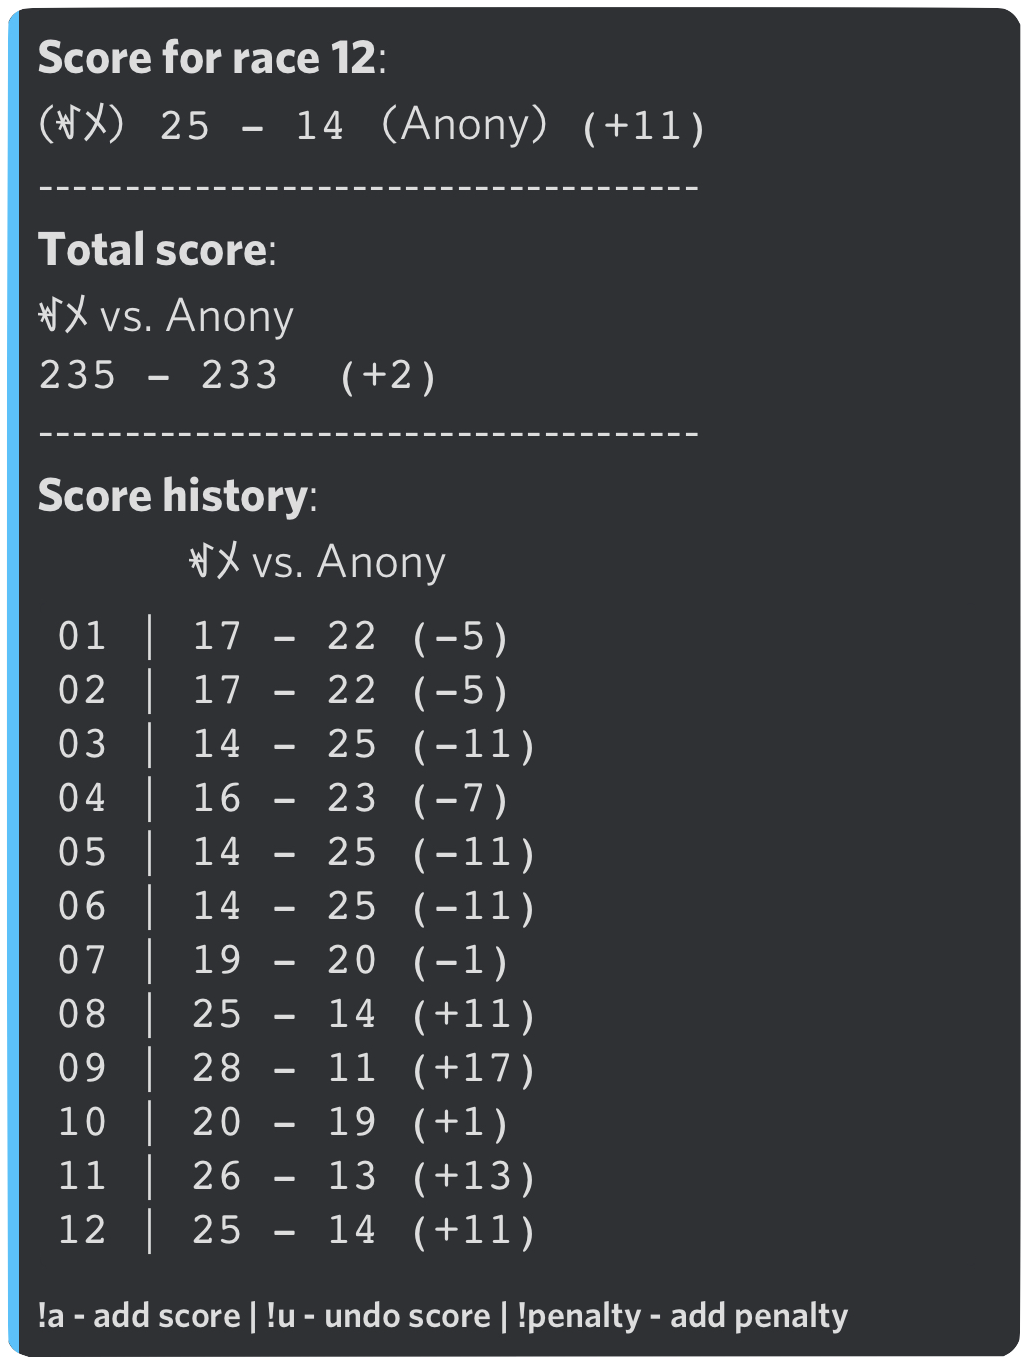
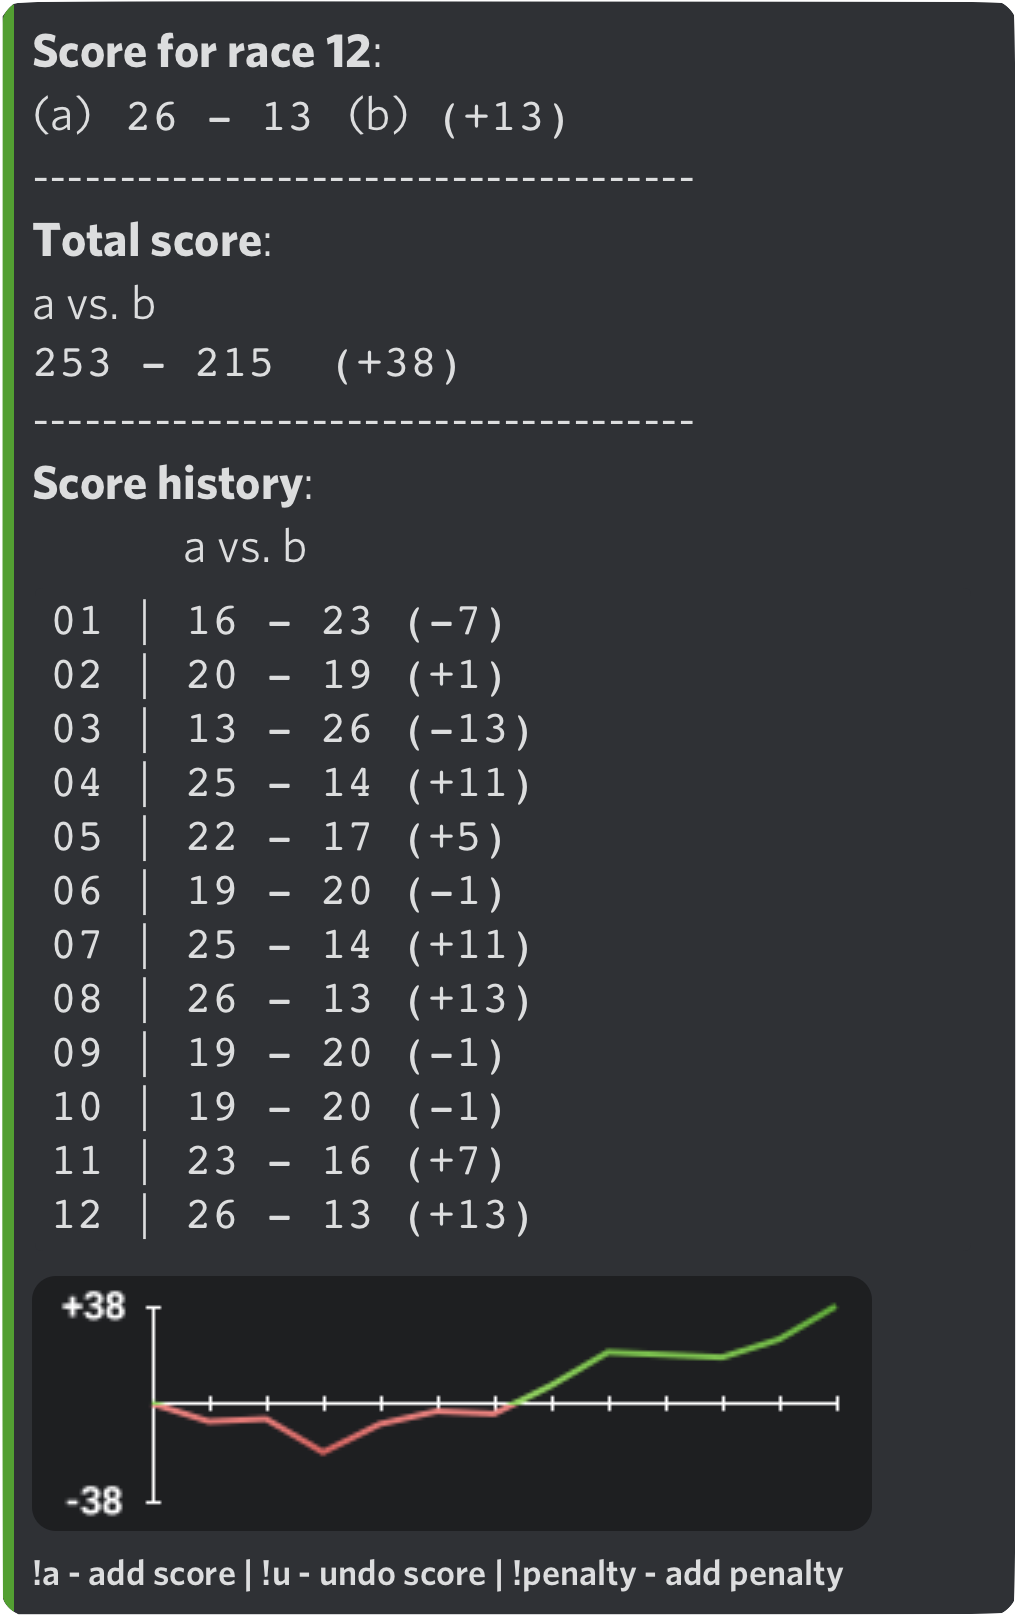
Ice Mario updates

diff --git a/icemario/commands/lounge.html b/icemario/commands/lounge.html
@@ -162,25 +162,19 @@
 
 
 
-		<code class="cmd">!top# rank1</code> <i>or</i><br>
-		<code class="cmd">!top# rank2 rank1</code>
+		<code class="cmd">!top# rank</code>
 		<p class="indent">	            
             <span><code class="arg">#</code> (optional): The season number. If left out, this will get the current season.</span><br>
-            <span><code class="arg">rank1</code> (optional): Returns everyone who's rank is above <code>rank1</code>. </span><br>
-            <span><code class="arg">rank2</code> (optional): Returns everyone who's rank is below <code>rank2</code>. </span><br><br>
+            <span><code class="arg">rank</code> (optional): Returns the leaderboard page containing <code>rank</code>. </span><br><br>
 
-            Get the players in the specified rank range. <br><br>
-
-            Note: the command will only get at most 10 people, so if you provide both <code>rank2</code> and <code>rank1</code>, then <code>rank1</code> will automatically be converted to <code class="example">rank2 + 10</code> if it is too large. <br><br>
+            Get the lounge leaderboard. Buttons are included to switch between pages.<br><br>
 
             Examples:
             <ul class="indent">
                 <li><code class="example" style="line-height: 1.7;">!top</code>: Get the top 10 players for the current season.</li>
                 <li><code class="example" style="line-height: 1.7;">!top8</code>: Get the top 10 players for season 8.</li>
-                <li><code class="example" style="line-height: 1.7;">!top 20</code>: Get the players for the current season with rank between 10 and 20.</li>
-                <li><code class="example" style="line-height: 1.7;">!top 20 30</code>: Get the players for the current season with rank between 20 and 30.</li>
-                <li><code class="example" style="line-height: 1.7;">!top 20 100</code>: Get the players for the current season with rank between 20 and 30.</li>
-                <li><code class="example" style="line-height: 1.7;">!top11 30</code>: Get the players for season 11 with rank between 20 and 30.</li>
+                <li><code class="example" style="line-height: 1.7;">!top 20</code>: Jump to the page containing the player with rank 20.</li>
+                <li><code class="example" style="line-height: 1.7;">!top11 30</code>: Jump to the page containing the player with rank 20 for season 11.</li>
             </ul>
         </p>
         <div class="line"></div>

diff --git a/icemario/commands/table.html b/icemario/commands/table.html
@@ -138,7 +138,9 @@
 			<ul>
 				<li>The table data should start with the team name.</li>
 				<li style="margin-left: 30px;">You can add the full team name below the abbreviation on the table by including a dash like so: <br><code class="example">ABB - Full Team Name</code>. This is not available if using <code>!tablel</code>.</li>
-				<li style="margin-left: 30px;">You can set the team's text color by including a hex color code to the right, like <code class="example">#FF0000</code>. This will override the colors if !tablel is used, but this will have no effect if a style option is used (such as cwl, cyclone, or mku) </li>
+				<li style="margin-left: 30px;">You can set the team's text color by including a hex color code to the right, like <code class="example">#FF0000</code>. This will override the colors if !tablel is used, but this will have no effect if a style option is used (such as cwl, cyclone, or mku).</li>
+				<li style="margin-left: 30px;">Include a dash before the team name, like in <code class="example">-vx</code>, to display the team's tag, like <code class="example">vx</code>, instead of their logo when using !tablel.</li>
+				<li style="margin-left: 30px;">Use either a dot (<code class="example">.</code>) or a single dash (<code class="example">-</code>) for the team name to leave out their tag or logo.</li>
 				
 				<li>Add player names below the team name.</li>
 				<li style="margin-left: 30px;">Format: <code class="example">PlayerName [Flag] Score</code>. Adding a flag is optional. A list of standard country flags can be found <a href="https://gb.hlorenzi.com/help/flags" target="_blank">here</a>, and you can learn more about custom flags <a href="flags.html">here</a>. Regarding player scores, you can use addition to calculate them, like <code class="example">45+10+15</code>.</li>

diff --git a/icemario/commands/config.html b/icemario/commands/config.html
@@ -107,6 +107,8 @@
 			<ul>
 				<li><code>enable-score-tracker</code> (Default: <span class="default-color">true</span>): Enable or disable all score tracker commands.</li>
 				<li><code>default-team-name</code> (Default: <span class="default-color">Team1</span>): Sets the default team name for your server. You can use this to set your team tag so that you don't have to set it everytime you use <code class="example">!startwar</code> or <code class="example">!setteams</code>.</li>
+				<li><code>dynamic-color</code> (Default: <span class="default-color">true</span>): If enabled, the left side of Ice Mario's message will be green if your team is winning and red if your team is losing. The color will be darker the greater the total score difference. If disabled, a sky-blue color will be used.</li>
+				<li><code>show-score-graph</code> (Default: <span class="default-color">true</span>): Whether or not to display a graph of your team's total score difference for the war.</li>
 			</ul>
 
 

diff --git a/index.html b/index.html
@@ -1,15 +1,6 @@
 <!DOCTYPE html>
 <html lang="en">
 <head>
-    <!-- Google tag (gtag.js) -->
-    <script async src="https://www.googletagmanager.com/gtag/js?id=G-MDB3TY5LDH"></script>
-    <script>
-    window.dataLayer = window.dataLayer || [];
-    function gtag(){dataLayer.push(arguments);}
-    gtag('js', new Date());
-
-    gtag('config', 'G-MDB3TY5LDH');
-    </script>
     <meta charset="UTF-8">
     <meta name="viewport" content="width=device-width, initial-scale=1.0">
     <link rel="icon" type="image/png" href="assets/favicon.png">

diff --git a/icemario/css/commands.css b/icemario/css/commands.css
@@ -78,6 +78,7 @@ code.tall-line { /* add to top command class if there are 2+ arg versions */
     max-width: 800px;
     margin: 0 auto;
     min-height: calc(100vh - 314px);
+    line-height: 1.5em;
 }
 #main-content p {
     line-height: 1.3;
@@ -106,7 +107,6 @@ p .h3 {
     box-shadow: 2px 2px 7px rgba(0, 0, 0, 0.5);
     border-radius: 3px;
 }
-
 
 /* //////////////////////////////////////////////// */
 
